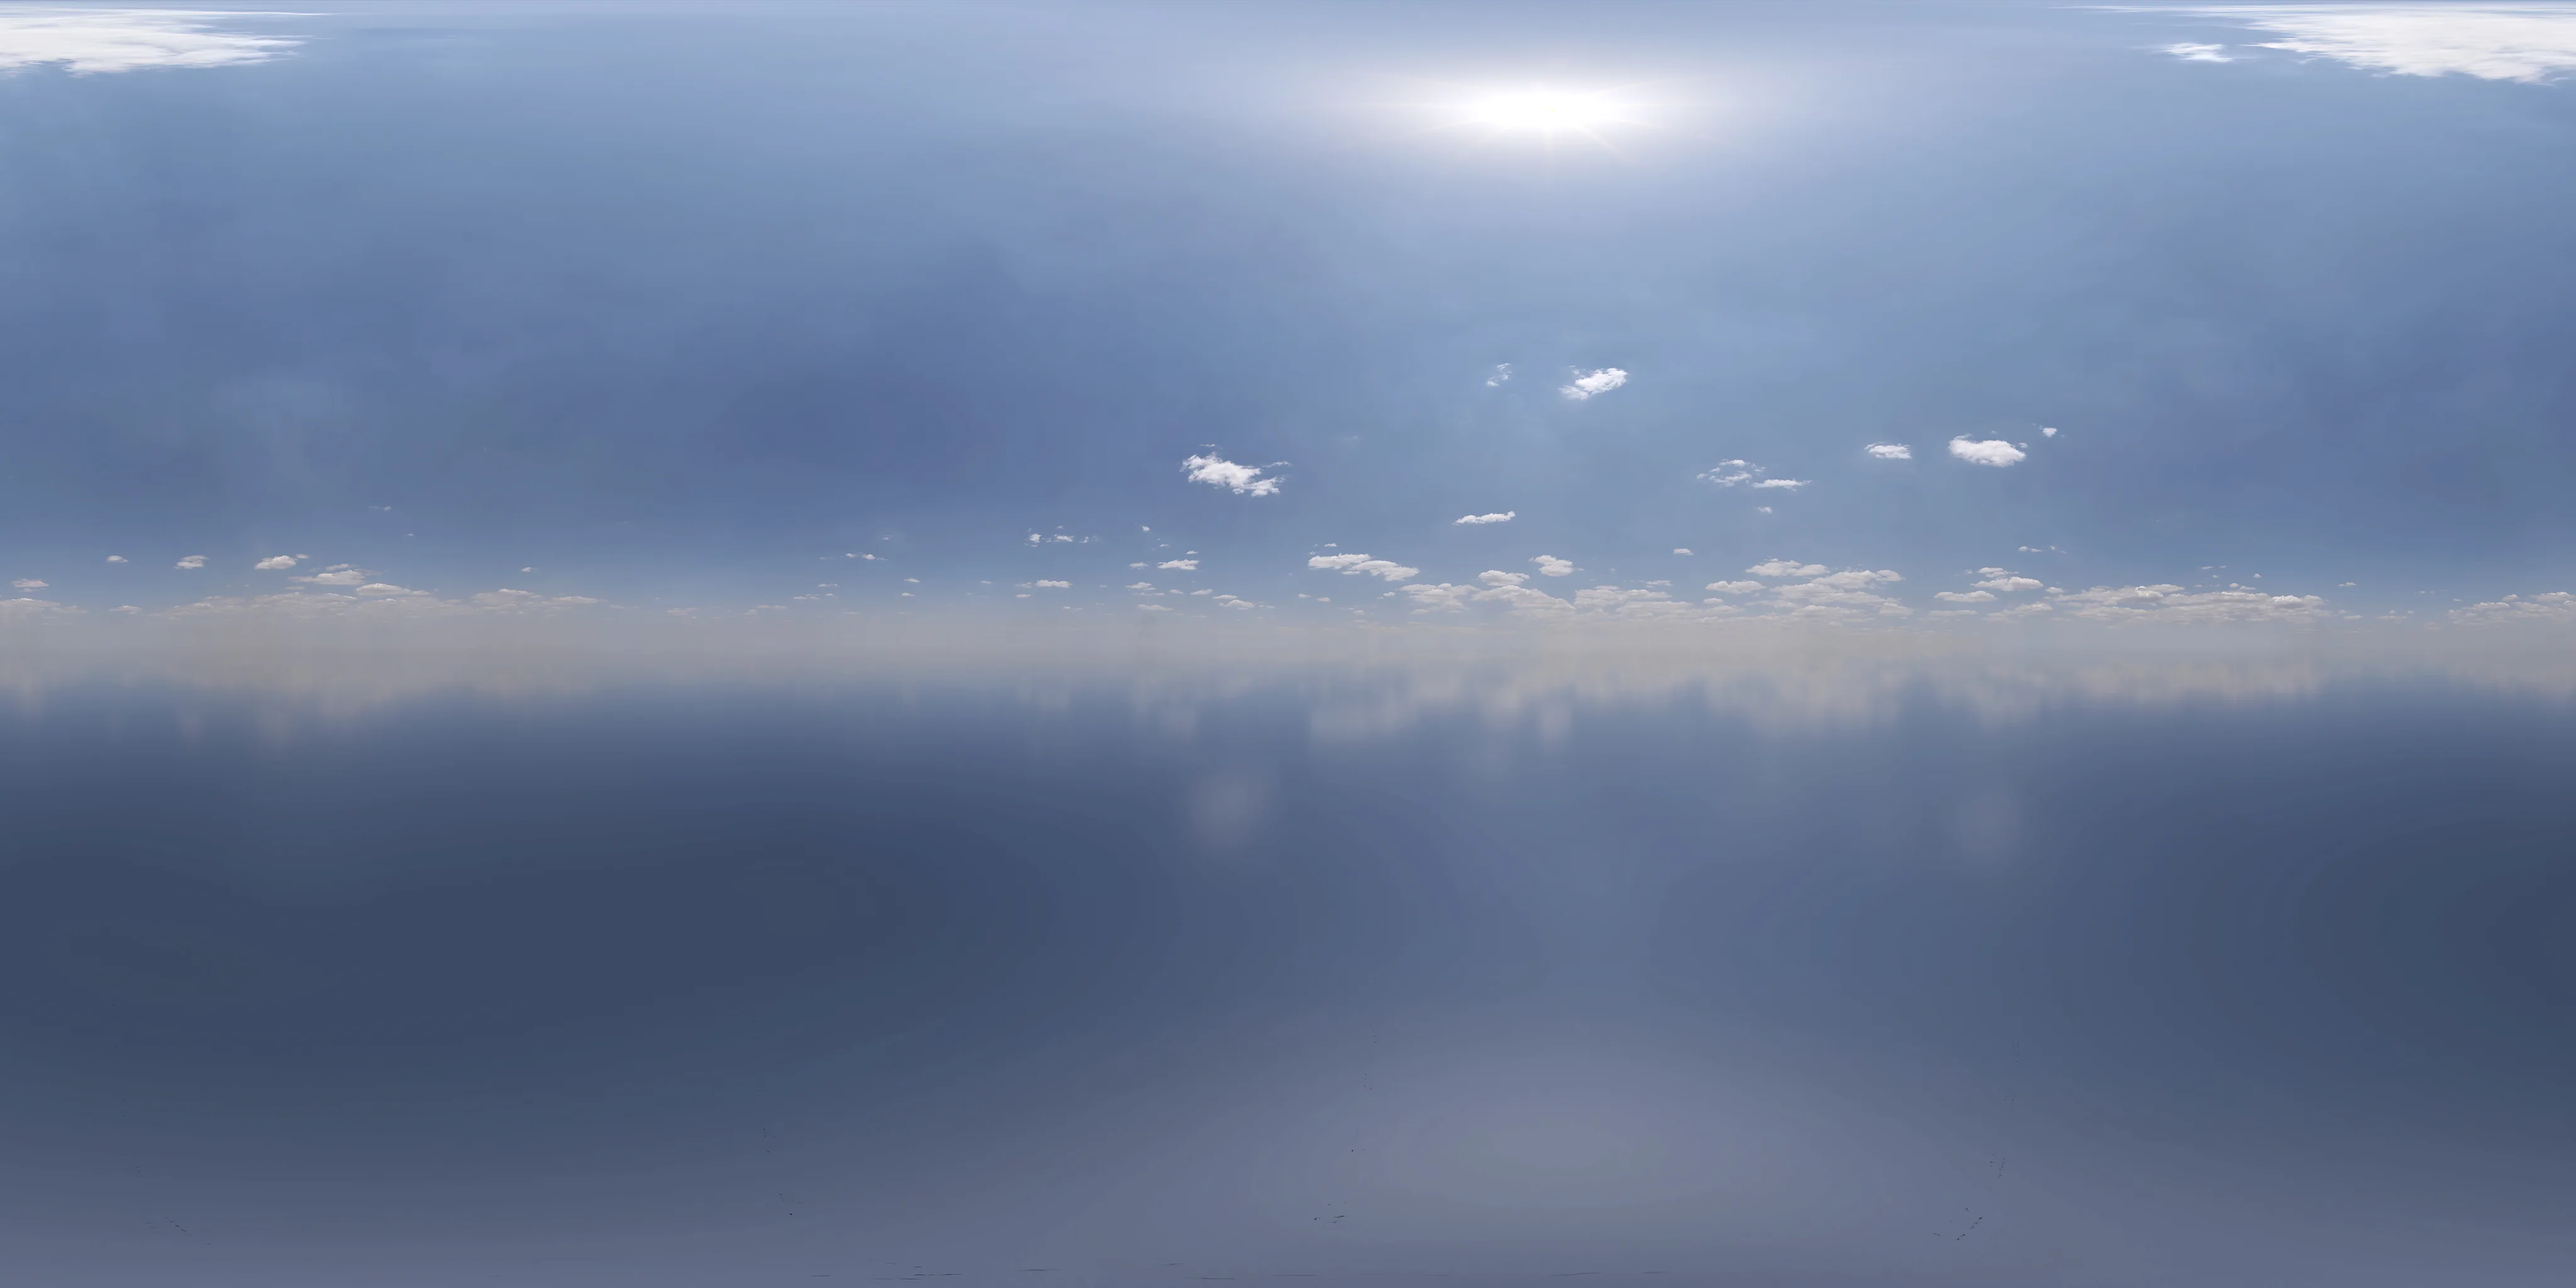
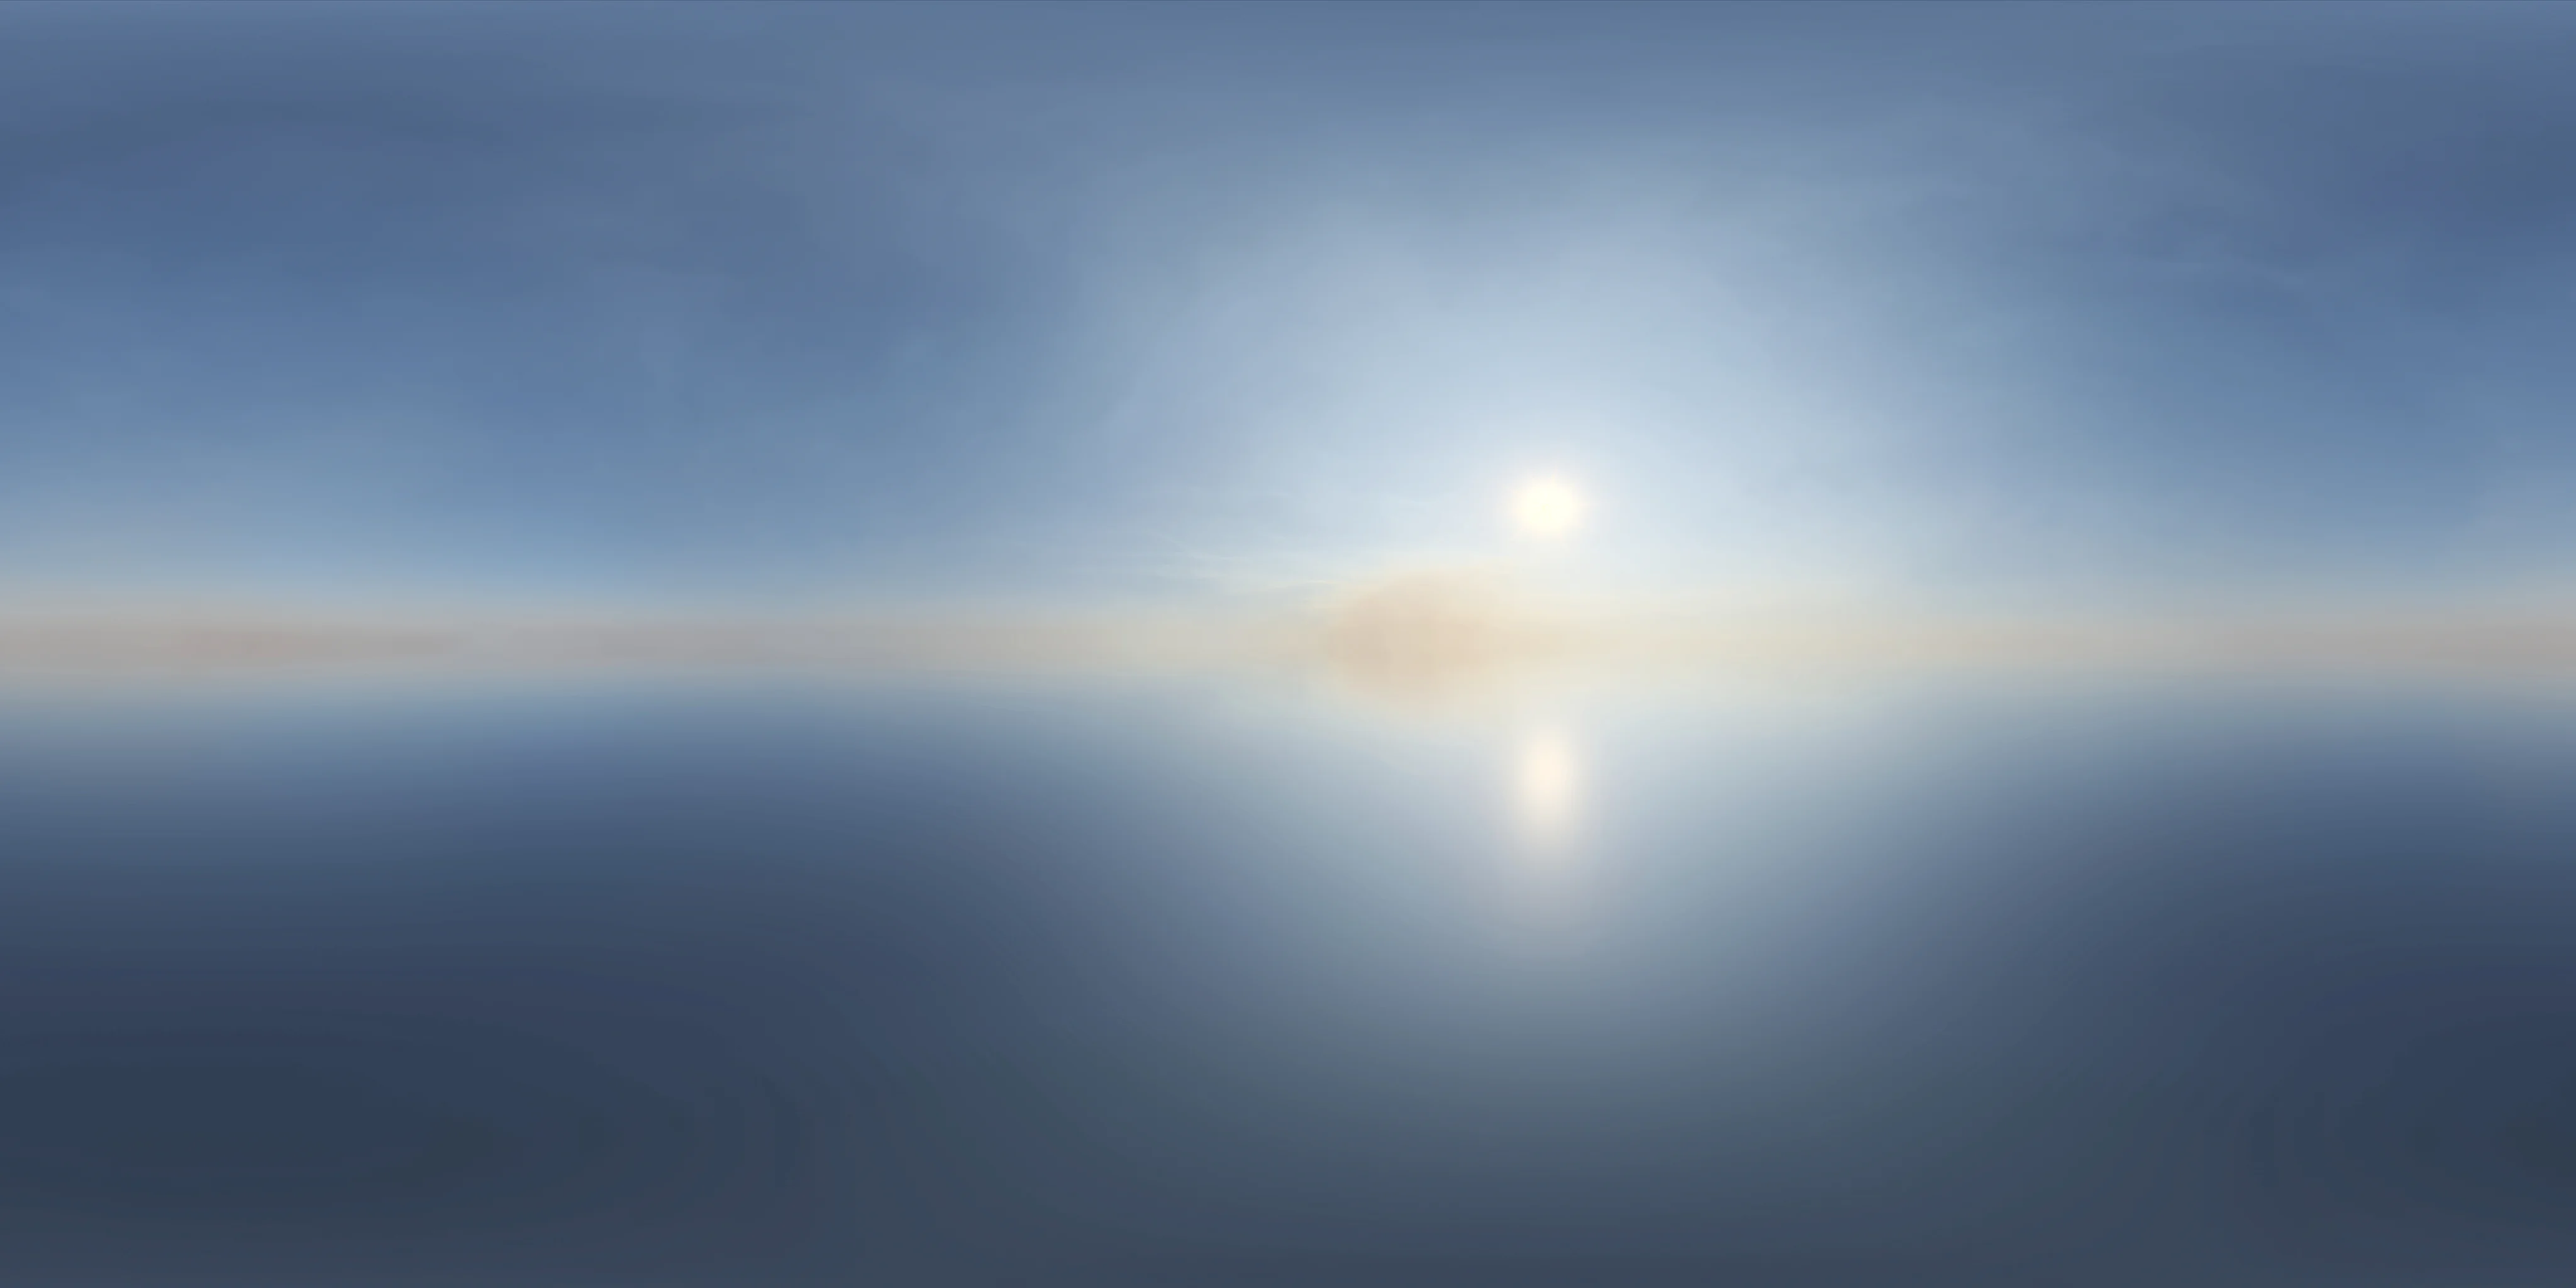
Shift Lyon lighting to late afternoon

diff --git a/src/world/lyon/lyonWorld.js b/src/world/lyon/lyonWorld.js
@@ -23,11 +23,12 @@ export async function createLyonWorld(scene,onProgress=()=>{},renderer,camera){
   const buildingIndex=createBuildingIndex(buildingData.buildings);
   sky.mapping=THREE.EquirectangularReflectionMapping;sky.colorSpace=THREE.SRGBColorSpace;
   lighting.mapping=THREE.EquirectangularReflectionMapping;
-  scene.background=sky;scene.backgroundIntensity=.85;
-  scene.environment=lighting;scene.environmentIntensity=.75;
-  scene.fog=new THREE.FogExp2(0xb3bfbe,.000095);
-  scene.add(new THREE.HemisphereLight(0xe1efff,0x5d655e,1.25));
-  const sun=new THREE.DirectionalLight(0xffe7c6,1.8);sun.position.set(-500,700,-900);scene.add(sun);
+  scene.background=sky;scene.backgroundIntensity=.95;
+  scene.environment=lighting;scene.environmentIntensity=.68;
+  scene.fog=new THREE.FogExp2(0xc4b5a7,.000085);
+  scene.add(new THREE.HemisphereLight(0xcbd8e8,0x70645b,1.05));
+  // Match the low sun in the late-afternoon equirectangular sky.
+  const sun=new THREE.DirectionalLight(0xffd2a5,1.95);sun.position.set(890,420,625);scene.add(sun);
 
   const tiles=new TilesRenderer(asset('lyon-photomesh/tileset.json'));
   // The camera gets finer visible tiles. A modest region ahead of the jet

diff --git a/index.html b/index.html
@@ -23,7 +23,7 @@
       <h1>SKYFALL<br/><em>PROTOCOL</em></h1>
       <p class="intro">Lyon is going dark. A rogue air defense network is jamming the evacuation route through the city. You are the last aircraft in range.</p>
       <div class="mission-card">
-        <div class="card-top"><span>CAMPAIGN / MISSION 01</span><span>06:42 LOCAL · LYON</span></div>
+        <div class="card-top"><span>CAMPAIGN / MISSION 01</span><span>17:00 LOCAL · LYON</span></div>
         <strong>BREAK THE SILENCE</strong>
         <p>Destroy two relay sites, clear the hostile interceptors, then fly through the extraction corridor.</p>
         <div class="card-tags"><span>◈ AIR-TO-GROUND</span><span>◇ AIR-TO-AIR</span><span>◎ EXTRACTION</span></div>

diff --git a/README.md b/README.md
@@ -101,4 +101,4 @@ A local static Pages build is available with `VITE_BASE_PATH=/skyfall/ bun run b
 
 ## Credits and licenses
 
-The fighter models are third-party assets with **noncommercial licenses**; check [aircraft attribution](public/assets/aircraft/ATTRIBUTION.md) before redistribution or commercial use. The sky and HDR lighting are adapted from [Poly Haven's Kloppenheim 05](https://polyhaven.com/a/kloppenheim_05_puresky), CC0. Sound sources and licenses are in [audio credits](public/assets/audio/CREDITS.md). The Lyon and OpenStreetMap data retain the licenses linked above.
+The fighter models are third-party assets with **noncommercial licenses**; check [aircraft attribution](public/assets/aircraft/ATTRIBUTION.md) before redistribution or commercial use. The late-afternoon sky and HDR lighting come from [Poly Haven's Qwantani Late Afternoon (Pure Sky)](https://polyhaven.com/a/qwantani_late_afternoon_puresky), CC0. Sound sources and licenses are in [audio credits](public/assets/audio/CREDITS.md). The Lyon and OpenStreetMap data retain the licenses linked above.
